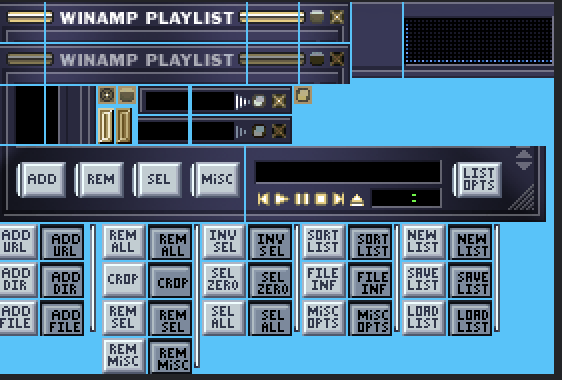
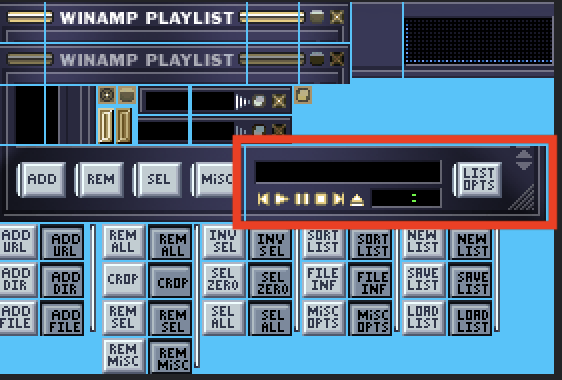
fix(playlist): adjust button Y to 220 and simplify corner positioning

Changed region(s): [[0.3932, 0.3474, 0.9982, 0.6079]]

diff --git a/MacAmpApp/Views/WinampPlaylistWindow.swift b/MacAmpApp/Views/WinampPlaylistWindow.swift
@@ -121,10 +121,11 @@ struct WinampPlaylistWindow: View {
             
             // Bottom section
             SimpleSpriteImage("PLAYLIST_BOTTOM_LEFT_CORNER", width: 125, height: 38)
-                .position(x: 62.5, y: 213) // 194 + 19
-            
+                .position(x: 62.5, y: 213)
+
+            // Position RIGHT corner to align right edge with window right edge
             SimpleSpriteImage("PLAYLIST_BOTTOM_RIGHT_CORNER", width: 150, height: 38)
-                .position(x: 200, y: 213) // 125 + 75, same y
+                .position(x: 275 - 75, y: 213) // Right-aligned: windowWidth - (width/2)
             
             // Fill any gap in bottom with tiles if corners don't meet
             // This prevents the black gap issue
@@ -265,7 +266,8 @@ struct WinampPlaylistWindow: View {
             // NOTE: Gold button icons are BAKED INTO the PLAYLIST_BOTTOM_RIGHT_CORNER sprite!
             // These are transparent click targets positioned over the visual icons in the background.
 
-            // Previous button - transparent click target
+            // Previous button - transparent click target over gold icon in background
+            // Icons are at Y:22 from top of corner, corner top is at Y:194, so button Y = 194+22+4 = 220
             Button(action: {
                 audioPlayer.previousTrack()
             }) {
@@ -274,9 +276,9 @@ struct WinampPlaylistWindow: View {
                     .contentShape(Rectangle())
             }
             .buttonStyle(.plain)
-            .position(x: 138, y: 220)
+            .position(x: 133, y: 220)  // Back to original X, icons start at left edge of corner
 
-            // Play button
+            // Play button (11px spacing)
             Button(action: {
                 if audioPlayer.isPaused {
                     audioPlayer.play()
@@ -289,7 +291,7 @@ struct WinampPlaylistWindow: View {
                     .contentShape(Rectangle())
             }
             .buttonStyle(.plain)
-            .position(x: 149, y: 220)
+            .position(x: 144, y: 220)
 
             // Pause button
             Button(action: {
@@ -300,7 +302,7 @@ struct WinampPlaylistWindow: View {
                     .contentShape(Rectangle())
             }
             .buttonStyle(.plain)
-            .position(x: 160, y: 220)
+            .position(x: 155, y: 220)
 
             // Stop button
             Button(action: {
@@ -311,7 +313,7 @@ struct WinampPlaylistWindow: View {
                     .contentShape(Rectangle())
             }
             .buttonStyle(.plain)
-            .position(x: 171, y: 220)
+            .position(x: 166, y: 220)
 
             // Next button
             Button(action: {
@@ -322,7 +324,7 @@ struct WinampPlaylistWindow: View {
                     .contentShape(Rectangle())
             }
             .buttonStyle(.plain)
-            .position(x: 182, y: 220)
+            .position(x: 177, y: 220)
 
             // Eject button (6th button)
             Button(action: {
@@ -333,7 +335,7 @@ struct WinampPlaylistWindow: View {
                     .contentShape(Rectangle())
             }
             .buttonStyle(.plain)
-            .position(x: 193, y: 220)
+            .position(x: 188, y: 220)
         }
     }
 
